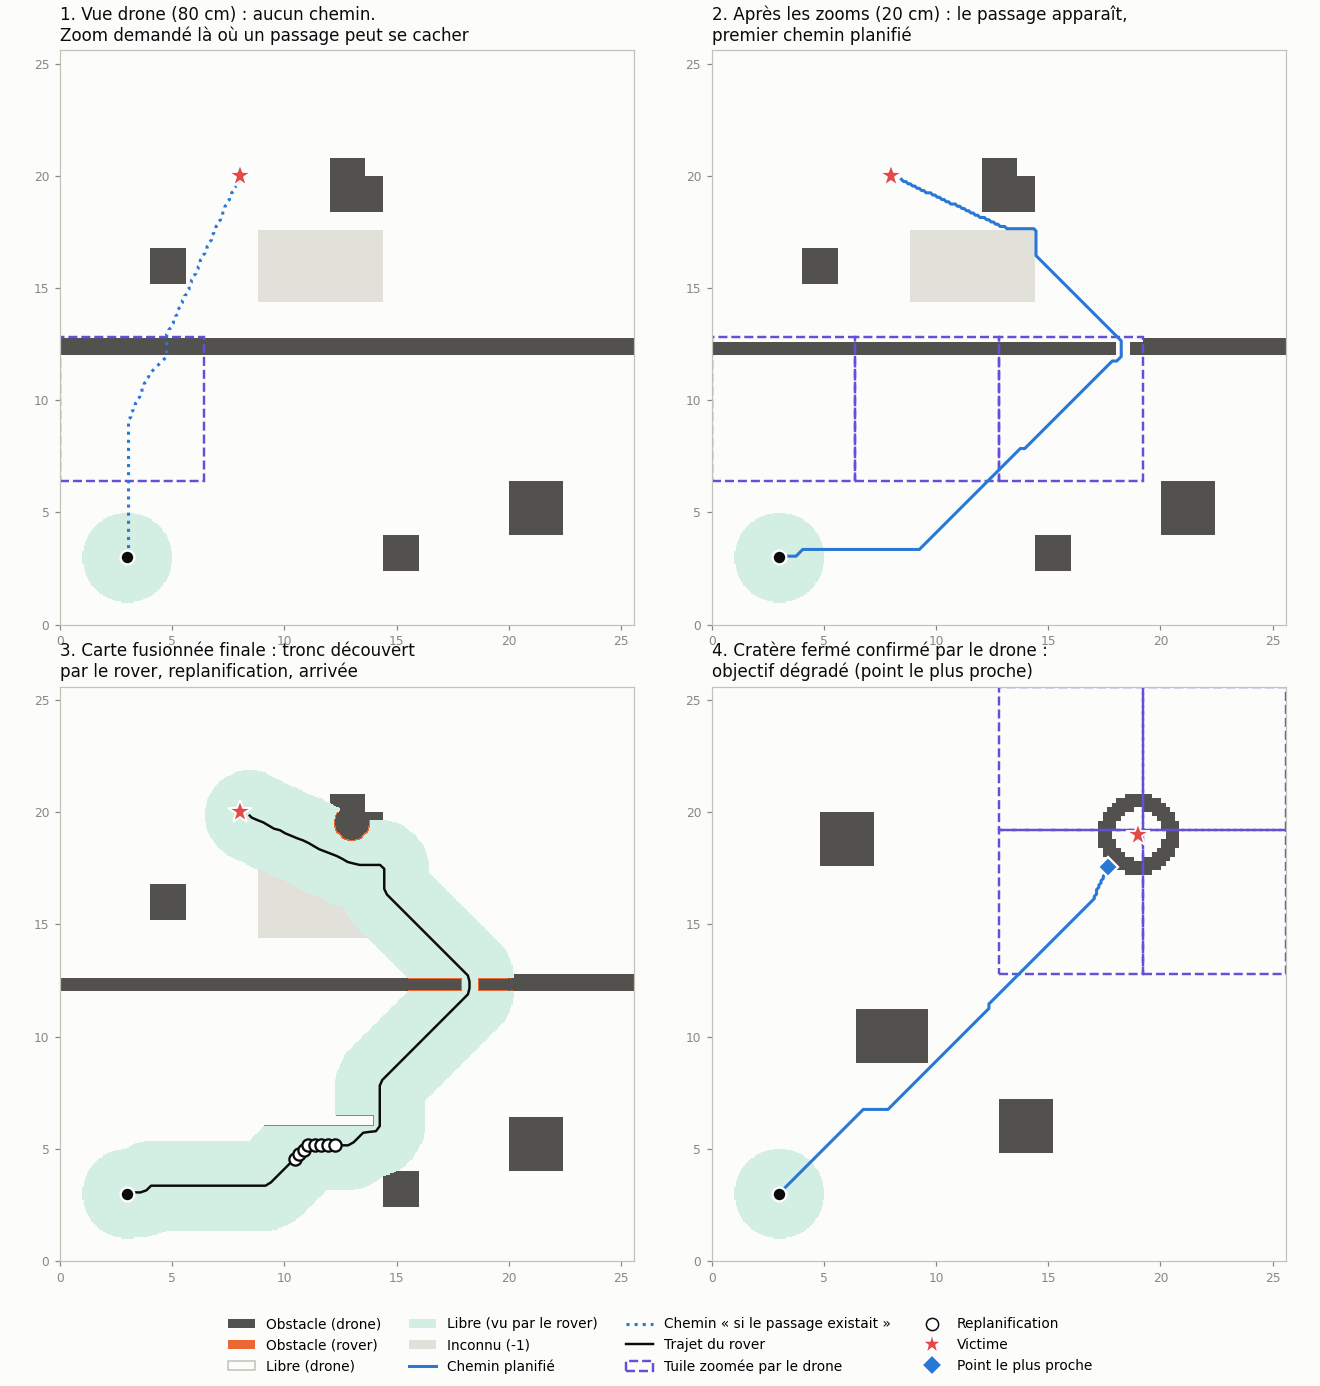
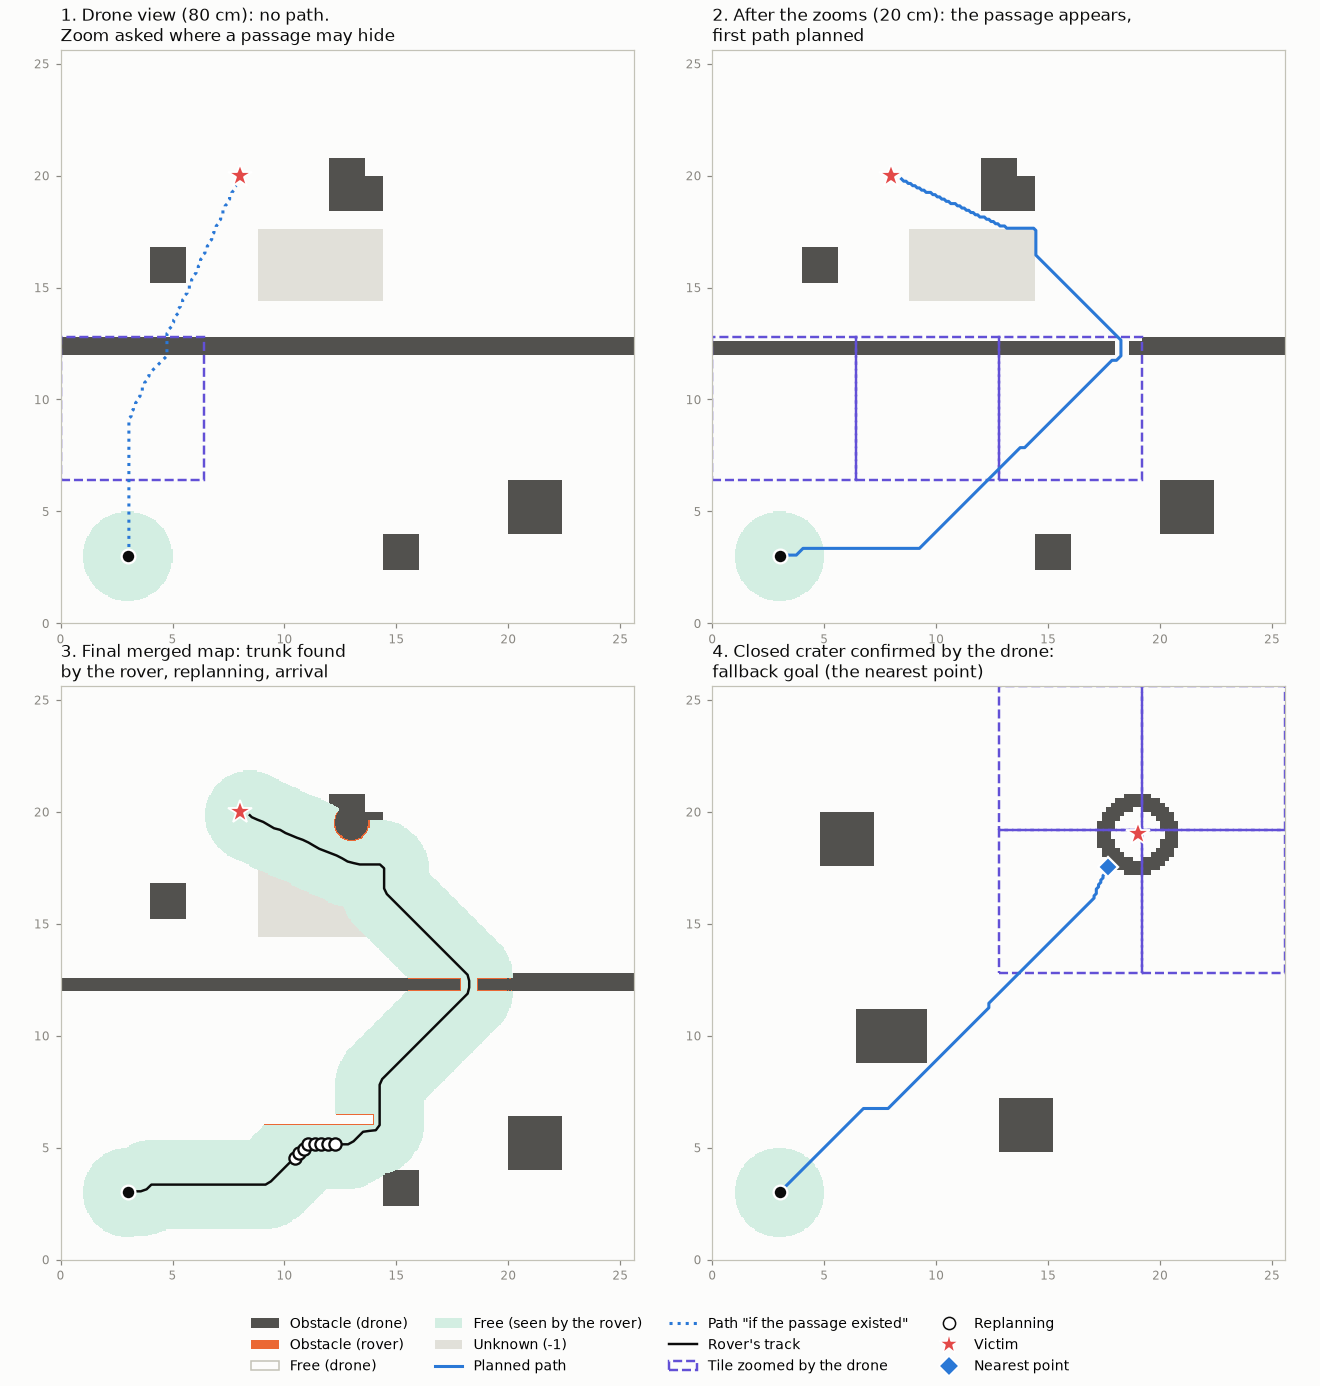
merging_map demo figure: titles and legend in English
Only the labels of the figure change; demo_fusion.png is regenerated with them.

diff --git a/merging_map/demo_fusion.py b/merging_map/demo_fusion.py
@@ -477,7 +477,7 @@ def main():
         axes[0, 0],
         c1,
         b['grille'],
-        '1. Vue drone (80 cm) : aucun chemin.\nZoom demandé là où un passage peut se cacher',
+        '1. Drone view (80 cm): no path.\nZoom asked where a passage may hide',
         d1,
         v1,
         chemin=b['optimiste'],
@@ -489,7 +489,7 @@ def main():
         axes[0, 1],
         c1,
         p['grille'],
-        '2. Après les zooms (20 cm) : le passage apparaît,\npremier chemin planifié',
+        '2. After the zooms (20 cm): the passage appears,\nfirst path planned',
         d1,
         v1,
         chemin=p['chemin'],
@@ -500,7 +500,7 @@ def main():
         axes[1, 0],
         c1,
         f['grille'],
-        '3. Carte fusionnée finale : tronc découvert\npar le rover, replanification, arrivée',
+        '3. Final merged map: trunk found\nby the rover, replanning, arrival',
         d1,
         v1,
         traj=f['traj'],
@@ -511,7 +511,7 @@ def main():
         axes[1, 1],
         c2,
         dg['grille'],
-        '4. Cratère fermé confirmé par le drone :\nobjectif dégradé (point le plus proche)',
+        '4. Closed crater confirmed by the drone:\nfallback goal (the nearest point)',
         d2,
         v2,
         chemin=dg['chemin'],
@@ -522,15 +522,15 @@ def main():
     legende = [
         Patch(fc=C_OBS_DRONE, label='Obstacle (drone)'),
         Patch(fc=C_OBS_ROVER, label='Obstacle (rover)'),
-        Patch(fc=C_LIBRE, ec='#c3c2b7', label='Libre (drone)'),
-        Patch(fc=C_LIBRE_ROVER, label='Libre (vu par le rover)'),
-        Patch(fc=C_INCONNU, label='Inconnu (-1)'),
-        Line2D([], [], color=C_CHEMIN, lw=2, label='Chemin planifié'),
-        Line2D([], [], color=C_CHEMIN, lw=2, ls=':', label='Chemin « si le passage existait »'),
-        Line2D([], [], color=C_ENCRE, lw=1.6, label='Trajet du rover'),
-        Patch(fc='none', ec=C_ZOOM, ls='--', lw=1.6, label='Tuile zoomée par le drone'),
-        Line2D([], [], marker='o', ls='', mfc='white', mec=C_ENCRE, ms=8, label='Replanification'),
-        Line2D([], [], marker='*', ls='', mfc=C_VICTIME, mec='white', ms=14, label='Victime'),
+        Patch(fc=C_LIBRE, ec='#c3c2b7', label='Free (drone)'),
+        Patch(fc=C_LIBRE_ROVER, label='Free (seen by the rover)'),
+        Patch(fc=C_INCONNU, label='Unknown (-1)'),
+        Line2D([], [], color=C_CHEMIN, lw=2, label='Planned path'),
+        Line2D([], [], color=C_CHEMIN, lw=2, ls=':', label='Path "if the passage existed"'),
+        Line2D([], [], color=C_ENCRE, lw=1.6, label="Rover's track"),
+        Patch(fc='none', ec=C_ZOOM, ls='--', lw=1.6, label='Tile zoomed by the drone'),
+        Line2D([], [], marker='o', ls='', mfc='white', mec=C_ENCRE, ms=8, label='Replanning'),
+        Line2D([], [], marker='*', ls='', mfc=C_VICTIME, mec='white', ms=14, label='Victim'),
         Line2D(
             [],
             [],
@@ -539,7 +539,7 @@ def main():
             mfc=C_CHEMIN,
             mec='white',
             ms=9,
-            label='Point le plus proche',
+            label='Nearest point',
         ),
     ]
     fig.legend(handles=legende, loc='lower center', ncol=4, frameon=False, fontsize=9)

diff --git a/README.md b/README.md
@@ -84,7 +84,7 @@ flowchart LR
 | From above, on the real floor | Map fusion and planning |
 |---|---|
 | <img src="docs/images/overhead-real.jpg" width="420" alt="A picture of the arena taken from above, next to the obstacle grid computed from it"> | ![Four panels of the map fusion demo: drone view, zoomed tiles, fused map with replanning, unreachable goal](merging_map/demo_fusion.png) |
-| A picture from the phone above the arena and the obstacle grid computed from it. The red circle is where the rover was found. | Output of `merging_map/demo_fusion.py` on a simulated world (labels in French): the coarse drone view shows no path, the drone zooms where a passage may hide, the rover finds a fallen trunk and replans, and a goal that cannot be reached is replaced by the nearest point. |
+| A picture from the phone above the arena and the obstacle grid computed from it. The red circle is where the rover was found. | Output of `merging_map/demo_fusion.py` on a simulated world: the coarse drone view shows no path, the drone zooms where a passage may hide, the rover finds a fallen trunk and replans, and a goal that cannot be reached is replaced by the nearest point. |
 
 The ROS 2 Jazzy nodes in `src/` publish the same overhead map on topics; the demo chain does
 not go through them.
